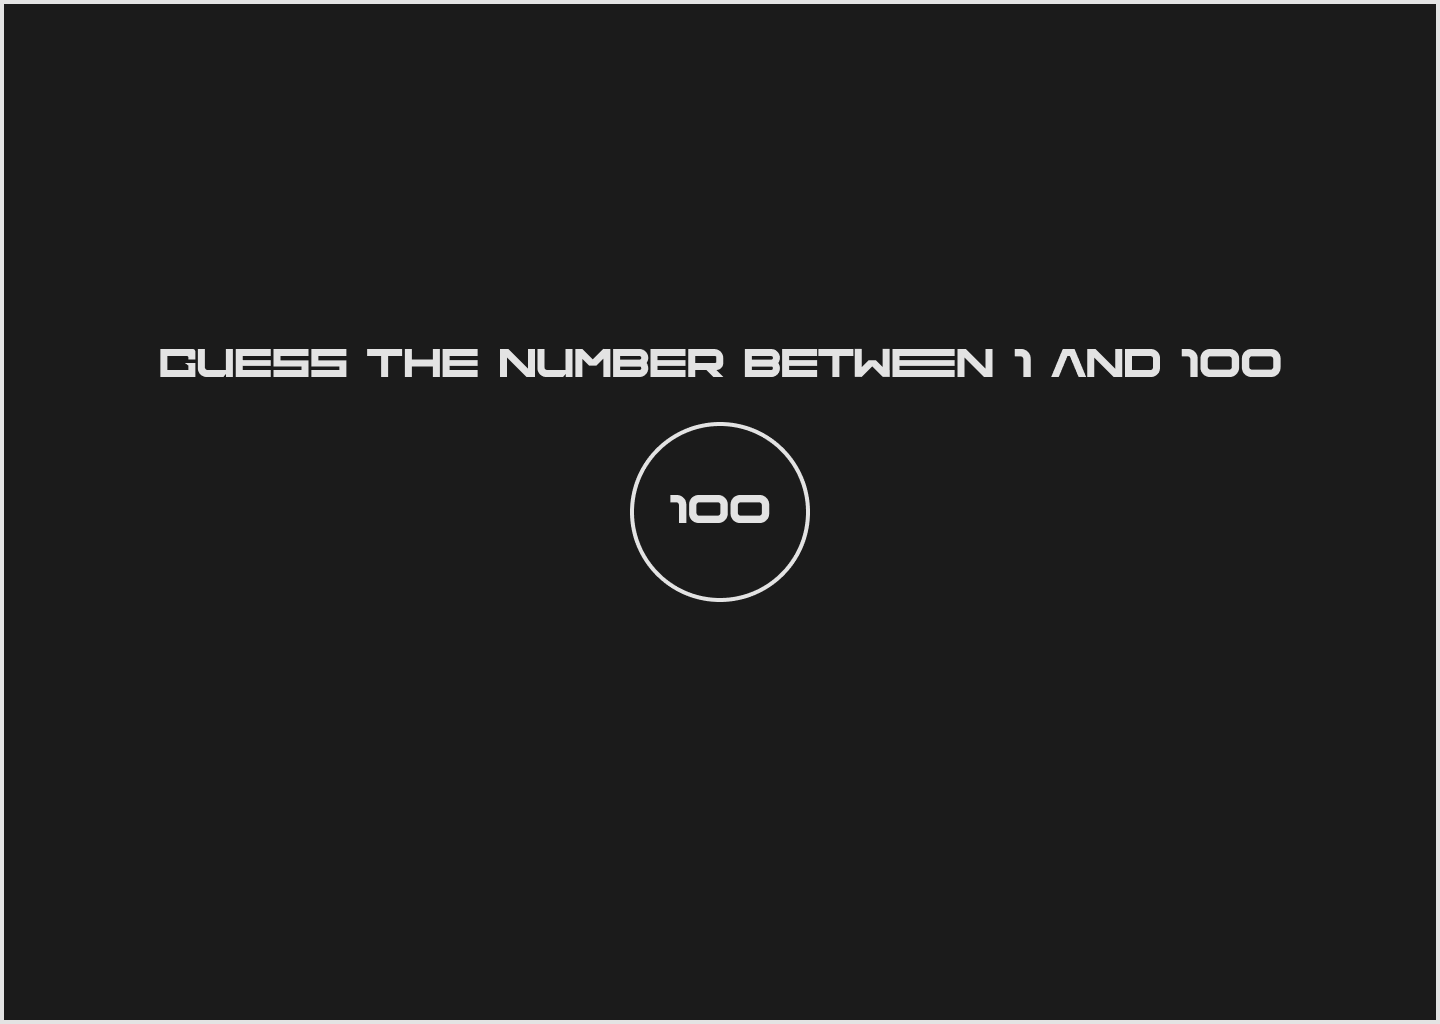
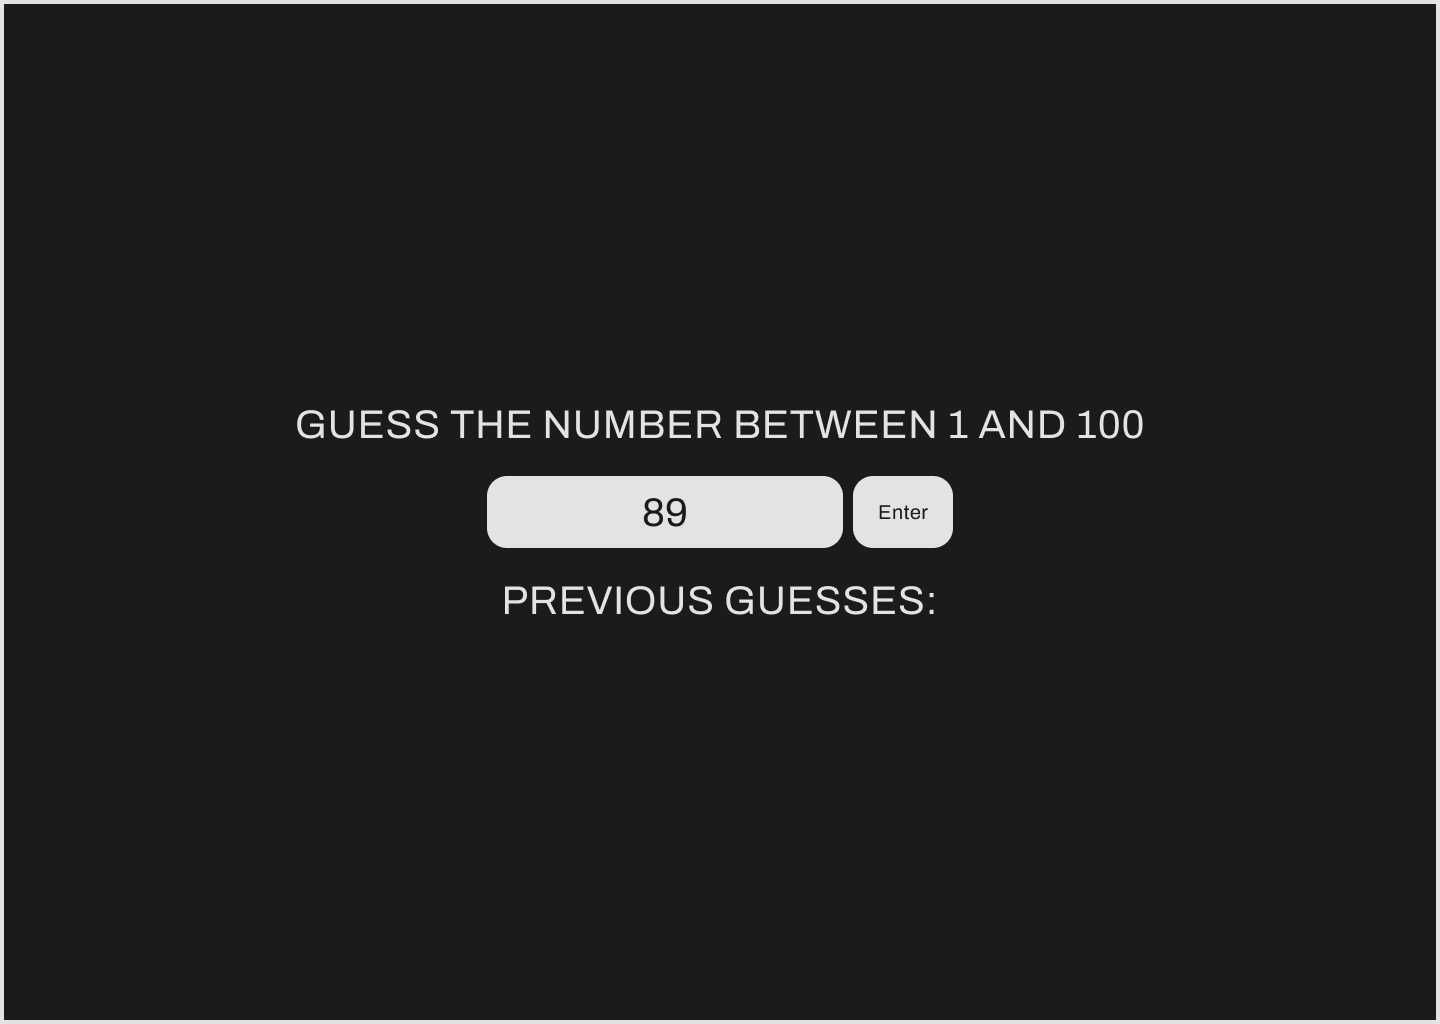
CSS style changes to font, button, etc.

Changed region(s): [[0.0938, 0.3438, 0.9062, 0.625]]

diff --git a/css/main.css b/css/main.css
@@ -1,32 +1,53 @@
 @font-face {
-    font-family: myFirstFont;
-    src: url(sansation_bold.woff);
-    font-weight: bold;
+    font-family: Archivo;
+    src: url("fonts/Archivo-regular.otf");
   }
   
   body {
     background-color: #1b1b1b;
+    font-family: Archivo;
+    letter-spacing: .2em;
+    position: fixed;
+    text-align: center;
   }
   
-  .wrapper {
+  .gameboard-wrapper {
     display: flex;
     flex-direction: column;
     align-items: center;
     justify-content: center;
-    height: 100vh;
-    width: 98vw;
+    height: 94vh;
+    width: 94vw;
     border: 1px solid white;
+    padding: 2rem;
   }
   
-  h1 {
-    font-size: 2vw;
-    color: #e3e3e3;
+  h1, h2 {
     text-transform: uppercase;
+    font-size: 1rem;
+    color: #e3e3e3;
+  }
+
+  button, input {
+	border: none;
+    height: 4vh;
+    border-radius: 1rem;
+    padding: 10px;
+}
+
+button {
+    cursor: pointer;
+    height: 100%;
+}
+
+
+  #prev-guesses-msg {
+    color: #e3e3e3;
   }
   
 
   .high {
-    color: #ffb04b;
+    color: #d1c074;
   }
 
   .low {

diff --git a/index.html b/index.html
@@ -9,12 +9,12 @@
     <title>Guess the Number</title>
   </head>
   <body>
-    <div class="wrapper">
+    <div class="gameboard-wrapper">
       <h1 id="message">Guess a number between 1 and 100.</h1>
 
       <form>
-        <input id="guess-input" placeholder="Guess goes here" type="text">
-        <button id="guess-button" type="submit">Guess</button>
+        <input id="guess-input" type="text">
+        <button id="guess-button" type="submit">Enter</button>
         <button id="reset-button" type="reset" hidden>Reset</button>
       </form>
       <h2 id="prev-guesses-msg"></h2>

diff --git a/js/app.js b/js/app.js
@@ -31,7 +31,6 @@ form.addEventListener("submit", function (evt) {
 init();
 
 function checkGuess(guess) {
-  console.log(guess, " current guess");
   guessInput.value = "";
   if (isNaN(guess) || guess < 1 || guess > 100) {
     renderError("Please enter a number between 1 and 100");
@@ -41,7 +40,6 @@ function checkGuess(guess) {
     isWinner = true;
   }
   guessList.push(guess);
-  console.log(guessList);
   render();
 }
 
